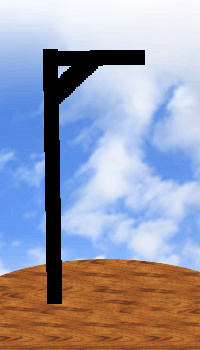
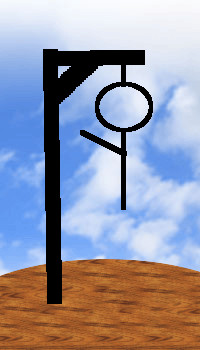
built basic functionality of Hangman Game

Changed region(s): [[0.39, 0.1714, 0.78, 0.6]]

diff --git a/assets/javascript/game.js b/assets/javascript/game.js
@@ -1,20 +1,122 @@
-//create global variables (computer word choices array, userguesses array correct guess array, wins, losses, attempts)
+//create global variables (computer word choices array, userguesses array correct guess array, attempts)
+var wordChoices = ["unattractive", "hideous", "repugnant", "vile", "frightful", "horrible", "unpleasant", "ghastly", "awful"];
+var userGuesses = [];
+var correctGuesses = [0];
+var attempts = 0;
+var nonLetter = document.getElementById("non-letter");
+var computerWordArray = [];
 
 //computer chooses a word
+var computerWord = wordChoices[Math.floor(Math.random() * wordChoices.length)];
+console.log(computerWord);
+
 //computer writes correct number of blanks to page (for loop for word length)
+for (var i = 0; i < computerWord.length; i++) {
+    computerWordArray.push(computerWord.charAt(i));
+    document.getElementById("word").innerHTML += "<span class=" + computerWord.charAt(i) + ">_ </span>";
+}
+
+
+var uniq = computerWordArray.reduce(function (a, b) {
+    if (a.indexOf(b) < 0) a.push(b);
+    return a;
+}, []);
+
+
+//reset function
+function reset() {
+    document.getElementById("try-again").textContent = "Press any letter to play again";
+    document.getElementById("losing-word").textContent = "the word was: " + computerWord;
+    document.getElementById("user-guesses").textContent = "";
+    document.getElementById("blank").textContent = "";
+    document.getElementById("word").innerHTML = "";
+    attempts = 0;
+    userGuesses = [];
+    correctGuesses = [0];
+    computerWordArray = [];
+    computerWord = wordChoices[Math.floor(Math.random() * wordChoices.length)];
+    for (var i = 0; i < computerWord.length; i++) {
+        computerWordArray.push(computerWord.charAt(i));
+        document.getElementById("word").innerHTML += "<span class=" + computerWord.charAt(i) + ">_ </span>";
+    };
+    uniq = computerWordArray.reduce(function (a, b) {
+        if (a.indexOf(b) < 0) a.push(b);
+        return a;
+    }, []);
+    console.log(computerWordArray);
+}
+
+
 
 //function for keyup
-//user guess = event.key
-//convert caps to lowercase
+document.onkeyup = function (event) {
 
-//if user guesses a letter
-    //function for allTrue
-    //function for anytrue
+    //user guess = event.key
+    //convert caps to lowercase
+    var typedLetter = event.key;
+    var userGuess = typedLetter.toLocaleLowerCase();
+    var letterReplace = document.getElementsByClassName(userGuess);
+    console.log(userGuess);
 
-    //if anyTrue write letter to correct space
-    //else if allTrue run win screen
+    //determine if guess is a letter
+    if (event.keyCode > 64 && event.keyCode < 91) {
+
+        nonLetter.innerHTML = "";
+        document.getElementById("blank").textContent = "Guesses the letters in the word";
+        document.getElementById("losing-word").textContent = "Guesses so far:";
         
-    //else replace hangman image with next image attempts--
+        //if to check if user had guessed letter before
+        if (!userGuesses.includes(userGuess)) {
+            
+            document.getElementById("user-guesses").textContent += userGuess + " ";
+            
+            //if for guesses that are correct and guesses less than unique letter length word length
+            if (uniq.includes(userGuess) && correctGuesses.length < uniq.length) {
+                correctGuesses.push(userGuess);
+                userGuesses.push(userGuess);
+                for (var i = 0; i < letterReplace.length; i++) {
+                    letterReplace[i].textContent = userGuess + " ";
+                }
+                console.log(userGuesses);
+            }
 
-//if else for duplicate letter
-//else for non-letter
+            //else if for all guesses correct
+            else if (uniq.includes(userGuess) && correctGuesses.length === uniq.length) {
+                document.getElementById("hangman-img").src = "https://i.pinimg.com/564x/72/37/aa/7237aa8562fa7b4147abe046ab3ba48e--brule-tim-obrien.jpg";
+                for (var i = 0; i < letterReplace.length; i++) {
+                    letterReplace[i].textContent = userGuess + " ";
+                }
+                console.log(correctGuesses.length);
+                console.log(uniq.length);
+                console.log(letterReplace.length);
+                reset();
+            }
+
+            //else if for incorrect guess
+            else if (!uniq.includes(userGuess) && attempts < 5) {
+                attempts++
+                document.getElementById("hangman-img").src = "assets/images/hangman-" + attempts + ".jpg";
+
+            }
+
+            //loss/restart
+            else {
+                document.getElementById("hangman-img").src = "https://vignette.wikia.nocookie.net/timanderic/images/5/51/S2E7Carol.png";
+                reset();
+                
+            }
+
+
+        }
+
+        //else the letter has already been guessed
+        else {
+            nonLetter.innerHTML = "You already guessed that letter";
+        }
+    }
+
+    //if a non-letter is pressed
+    else {
+        nonLetter.innerHTML = "Letters only, please";
+    }
+};

diff --git a/index.html b/index.html
@@ -7,7 +7,6 @@
     <link rel="stylesheet" href="https://maxcdn.bootstrapcdn.com/bootstrap/3.3.7/css/bootstrap.min.css" integrity="sha384-BVYiiSIFeK1dGmJRAkycuHAHRg32OmUcww7on3RYdg4Va+PmSTsz/K68vbdEjh4u"
         crossorigin="anonymous">
     <link rel="stylesheet" type="text/css" media="screen" href="assets/css/style.css" />
-    <script src="assets/javascript/game.js"></script>
 </head>
 
 <body>
@@ -15,28 +14,36 @@
 
     <!-- header -->
     <h1 class="page-header text-center">Ugly Hangman</h1>
-    
+
     <!-- game container -->
     <div class="container text-center">
-        <div class="row jumbotron">
-
-            <!-- guess area -->
-            <div class="col-xs-4">
-                <h3>Guess the letters in the word</h3>
-                <p>Guesses so far:</p>
-                <p id="user-guesses"></p>
-            </div>
-
+        <div class="row">
             <!-- hangman image area -->
-            <div class="col-xs-4">
+            <div class="col-xs-12">
                 <img id="hangman-img" src="assets/images/hangman-0.jpg">
             </div>
+            <div class="row jumbotron">
+                <!-- guess area -->
+                <div class="col-xs-6">
+                    <h3 id="blank">Guess the letters in the word</h3>
+                    <p id="losing-word">Guesses so far:</p>
+                    <p id="user-guesses"></p>
+                    <br>
+                    <p id="non-letter"></p>
+                </div>
 
-            <!-- word area -->
-            <div class="col-xs-4" id="word"></div>
+                <!-- word area -->
+                <div class="col-xs-6">
+                    <h2 id="try-again">Your word:</h2>
+                    <br>
+                    <br>
+                    <p id="word"></p>
+                </div>
+            </div>
         </div>
     </div>
 
+    <script src="assets/javascript/game.js"></script>
 </body>
 
 </html>

diff --git a/assets/css/style.css b/assets/css/style.css
@@ -1,4 +1,5 @@
 body {
+    font-family: "Comic Sans MS", cursive, sans-serif;
     background: burlywood;
 }
 
